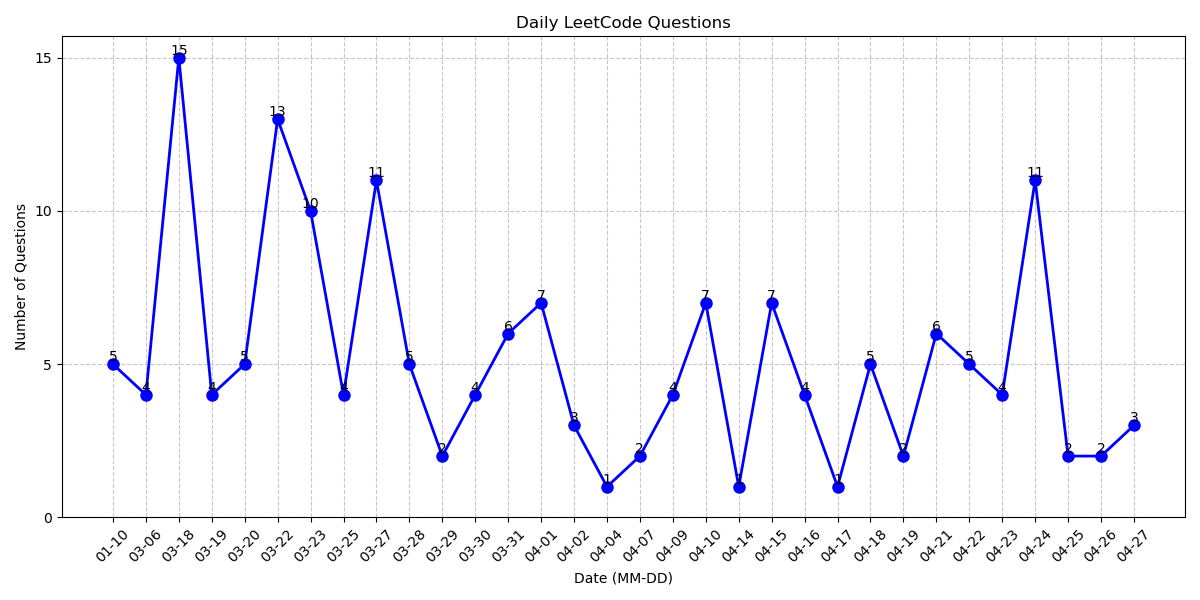
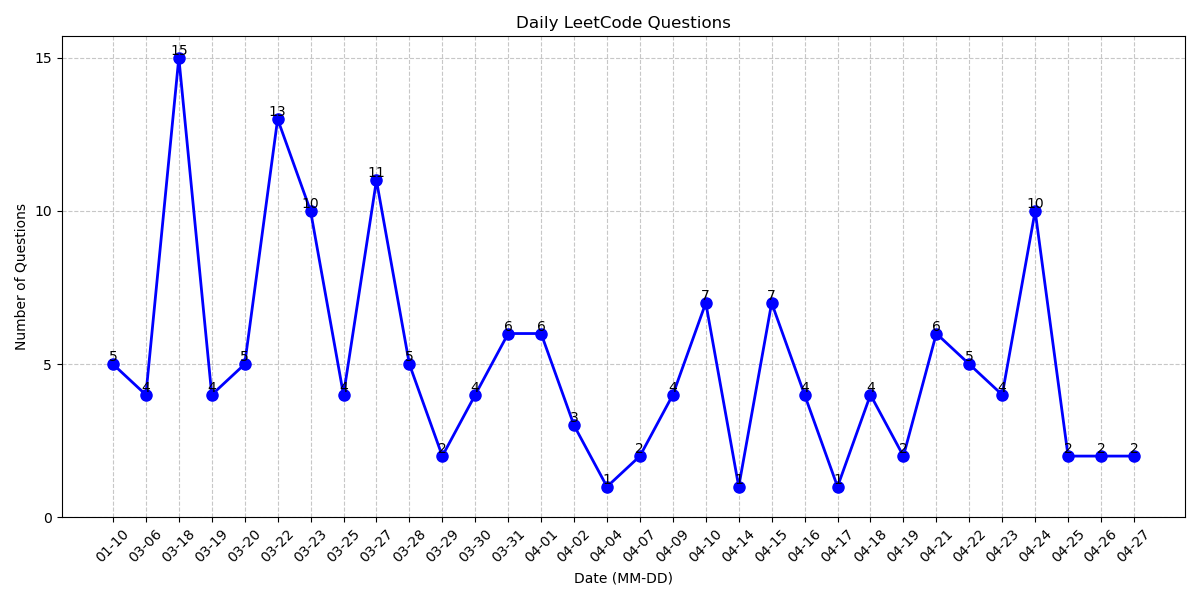
fix daily count, do not cound only insert

diff --git a/update_readme.py b/update_readme.py
@@ -79,6 +79,7 @@ def generate_bar_chart(folder_contents, output_path):
 
 
 def get_daily_commits(root_dir):
+
     repo = git.Repo(root_dir)
     daily_counts = defaultdict(int)
 
@@ -87,16 +88,22 @@ def get_daily_commits(root_dir):
         files = commit.stats.files
 
         for file_path, stats in files.items():
-            # Conditions: new file (additions > 0 and deletions == 0),
-            # valid extension (.c or .cpp), not in excluded folders
+            # Check if it's a new file (additions > 0 and deletions == 0)
+            is_new_file = (
+                stats.get("deletions", 0) == 0 and stats.get("insertions", 0) > 0
+            )
+
+            # Conditions: valid extension (.c or .cpp), not in excluded folders
             if (
                 file_path.endswith((".c", ".cpp"))
                 and not any(folder in file_path for folder in exclude_folder)
-                and stats.get("deletions", 0) == 0
-                and stats.get("insertions", 0) > 0
-                and stats.get("lines", 0) == stats.get("insertions", 0)
+                and is_new_file
             ):
-                daily_counts[date] += 1
+                # Ensure it's a newly created file (not modified in previous commits)
+                if not any(
+                    file_path in parent.stats.files for parent in commit.parents
+                ):
+                    daily_counts[date] += 1
 
     return daily_counts
 

diff --git a/Others/meetingTime.cpp b/Others/meetingTime.cpp
@@ -1,3 +1,4 @@
+// hint
 /**
  * Definition of Interval:
  * class Interval {
